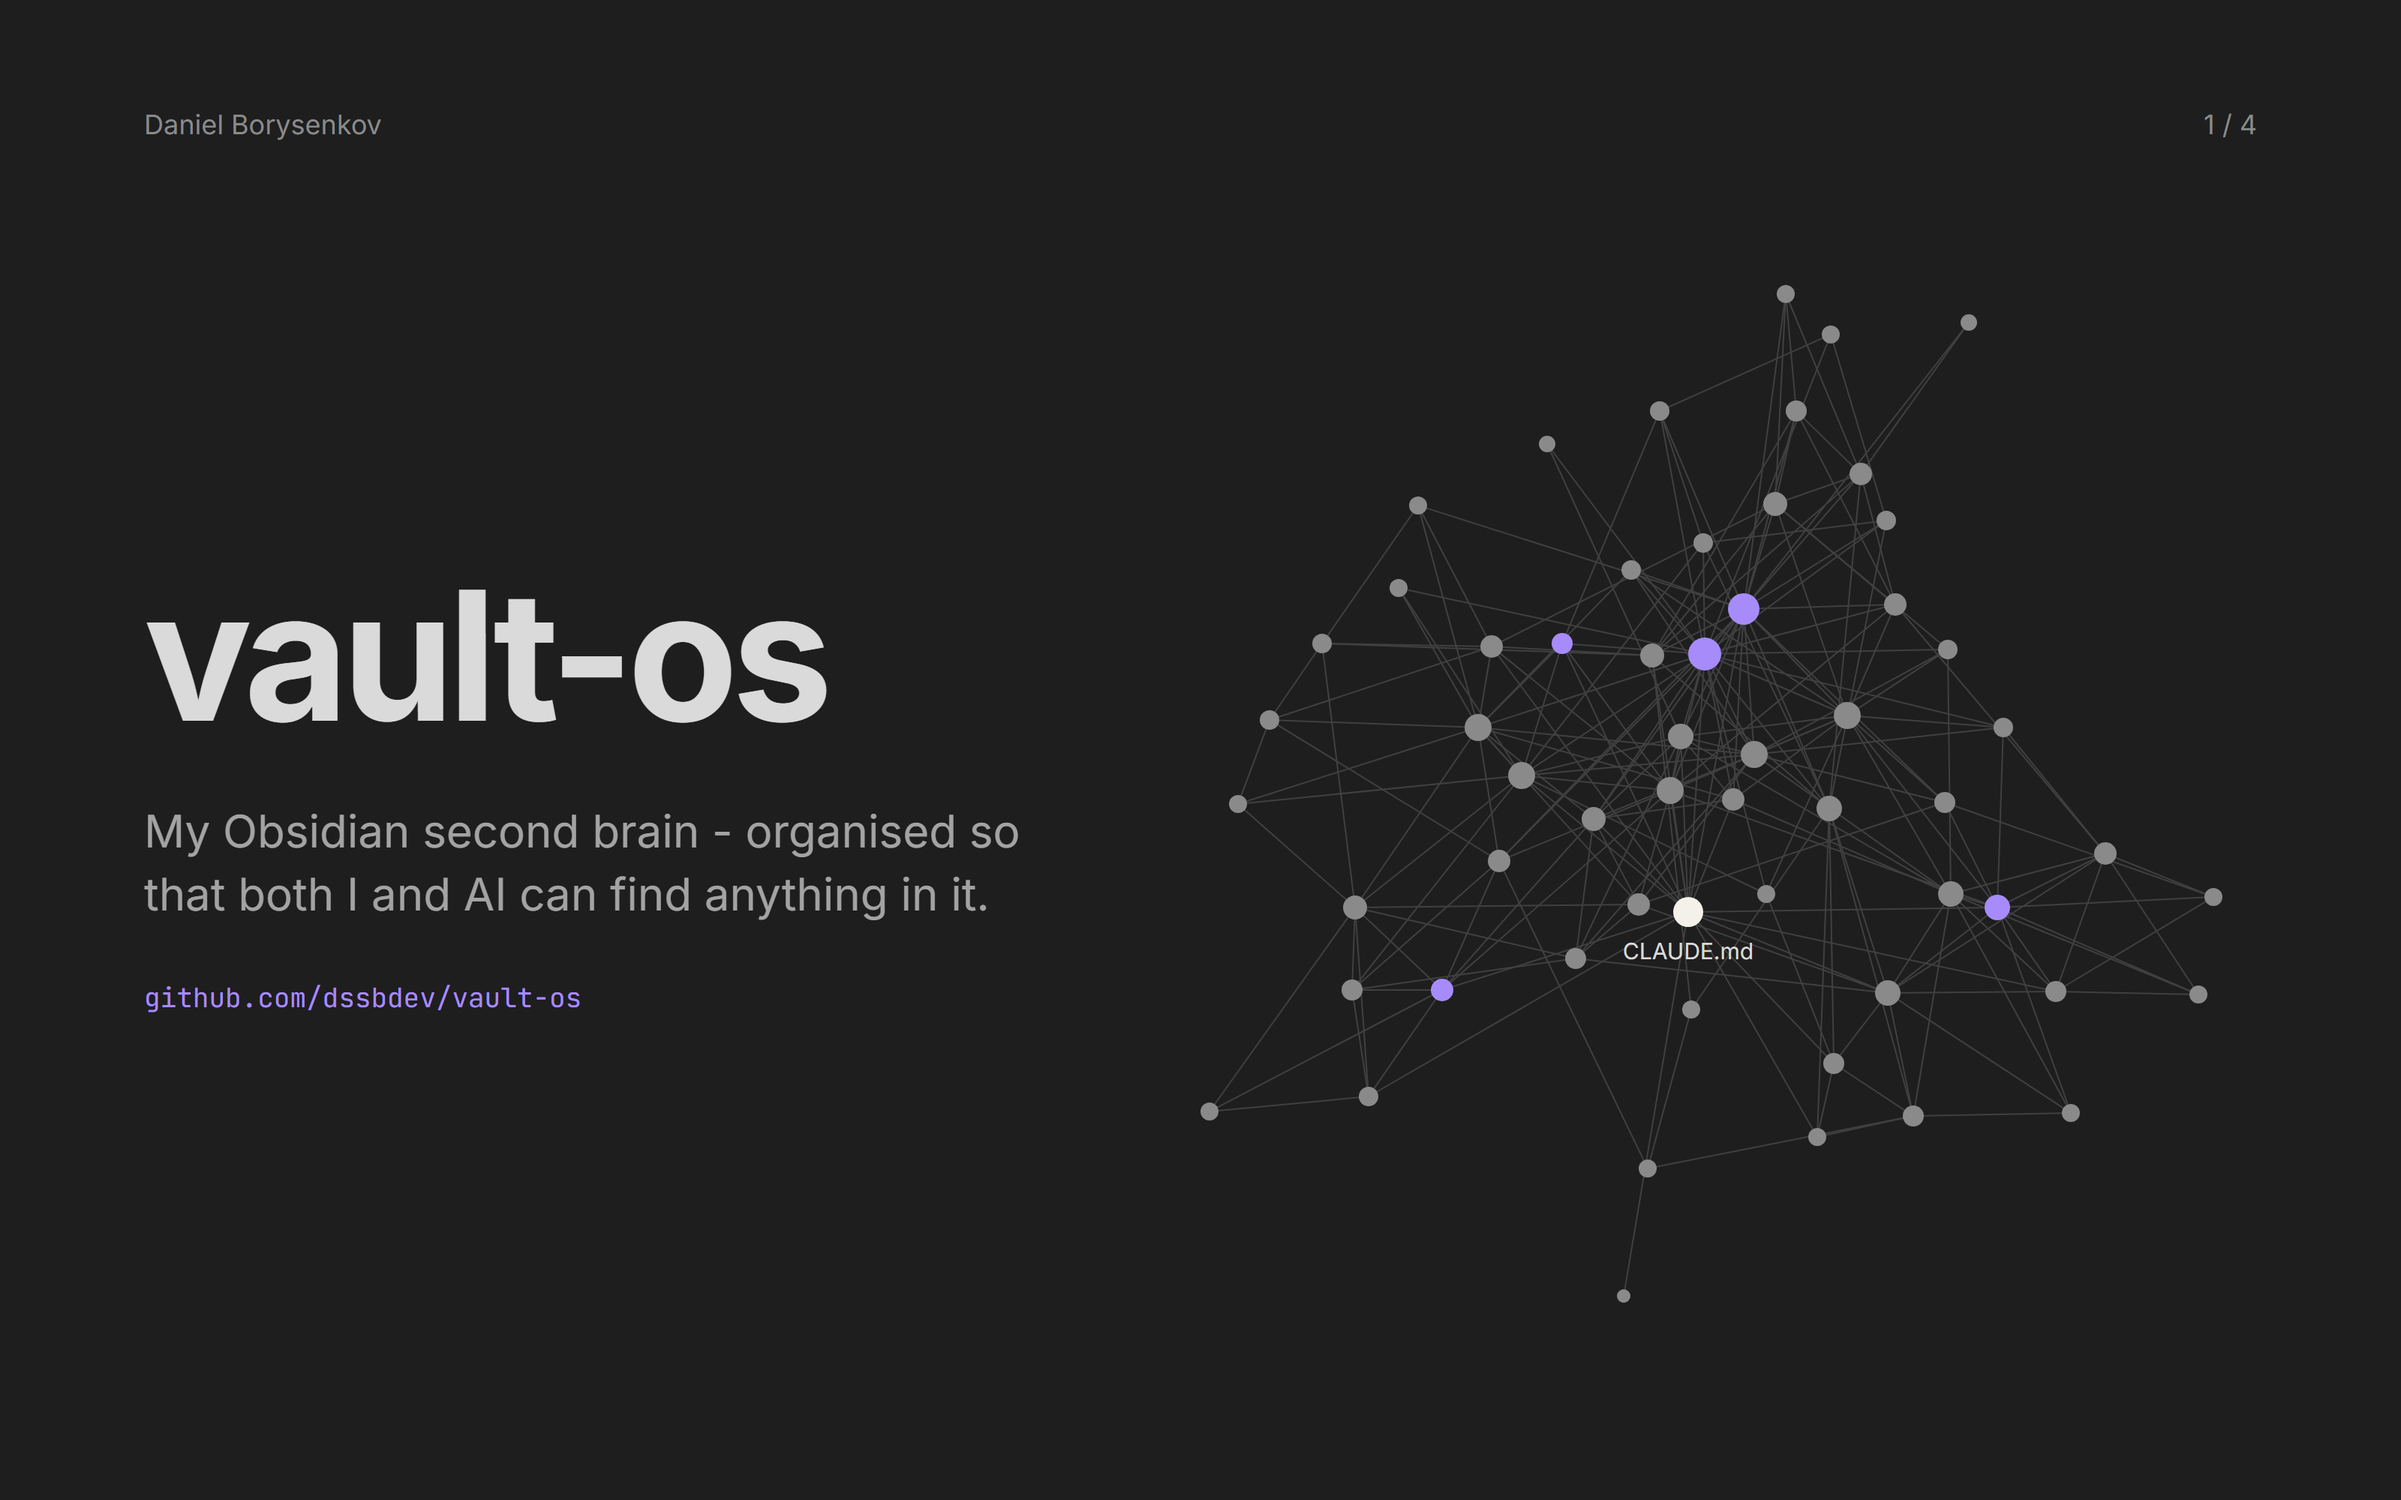
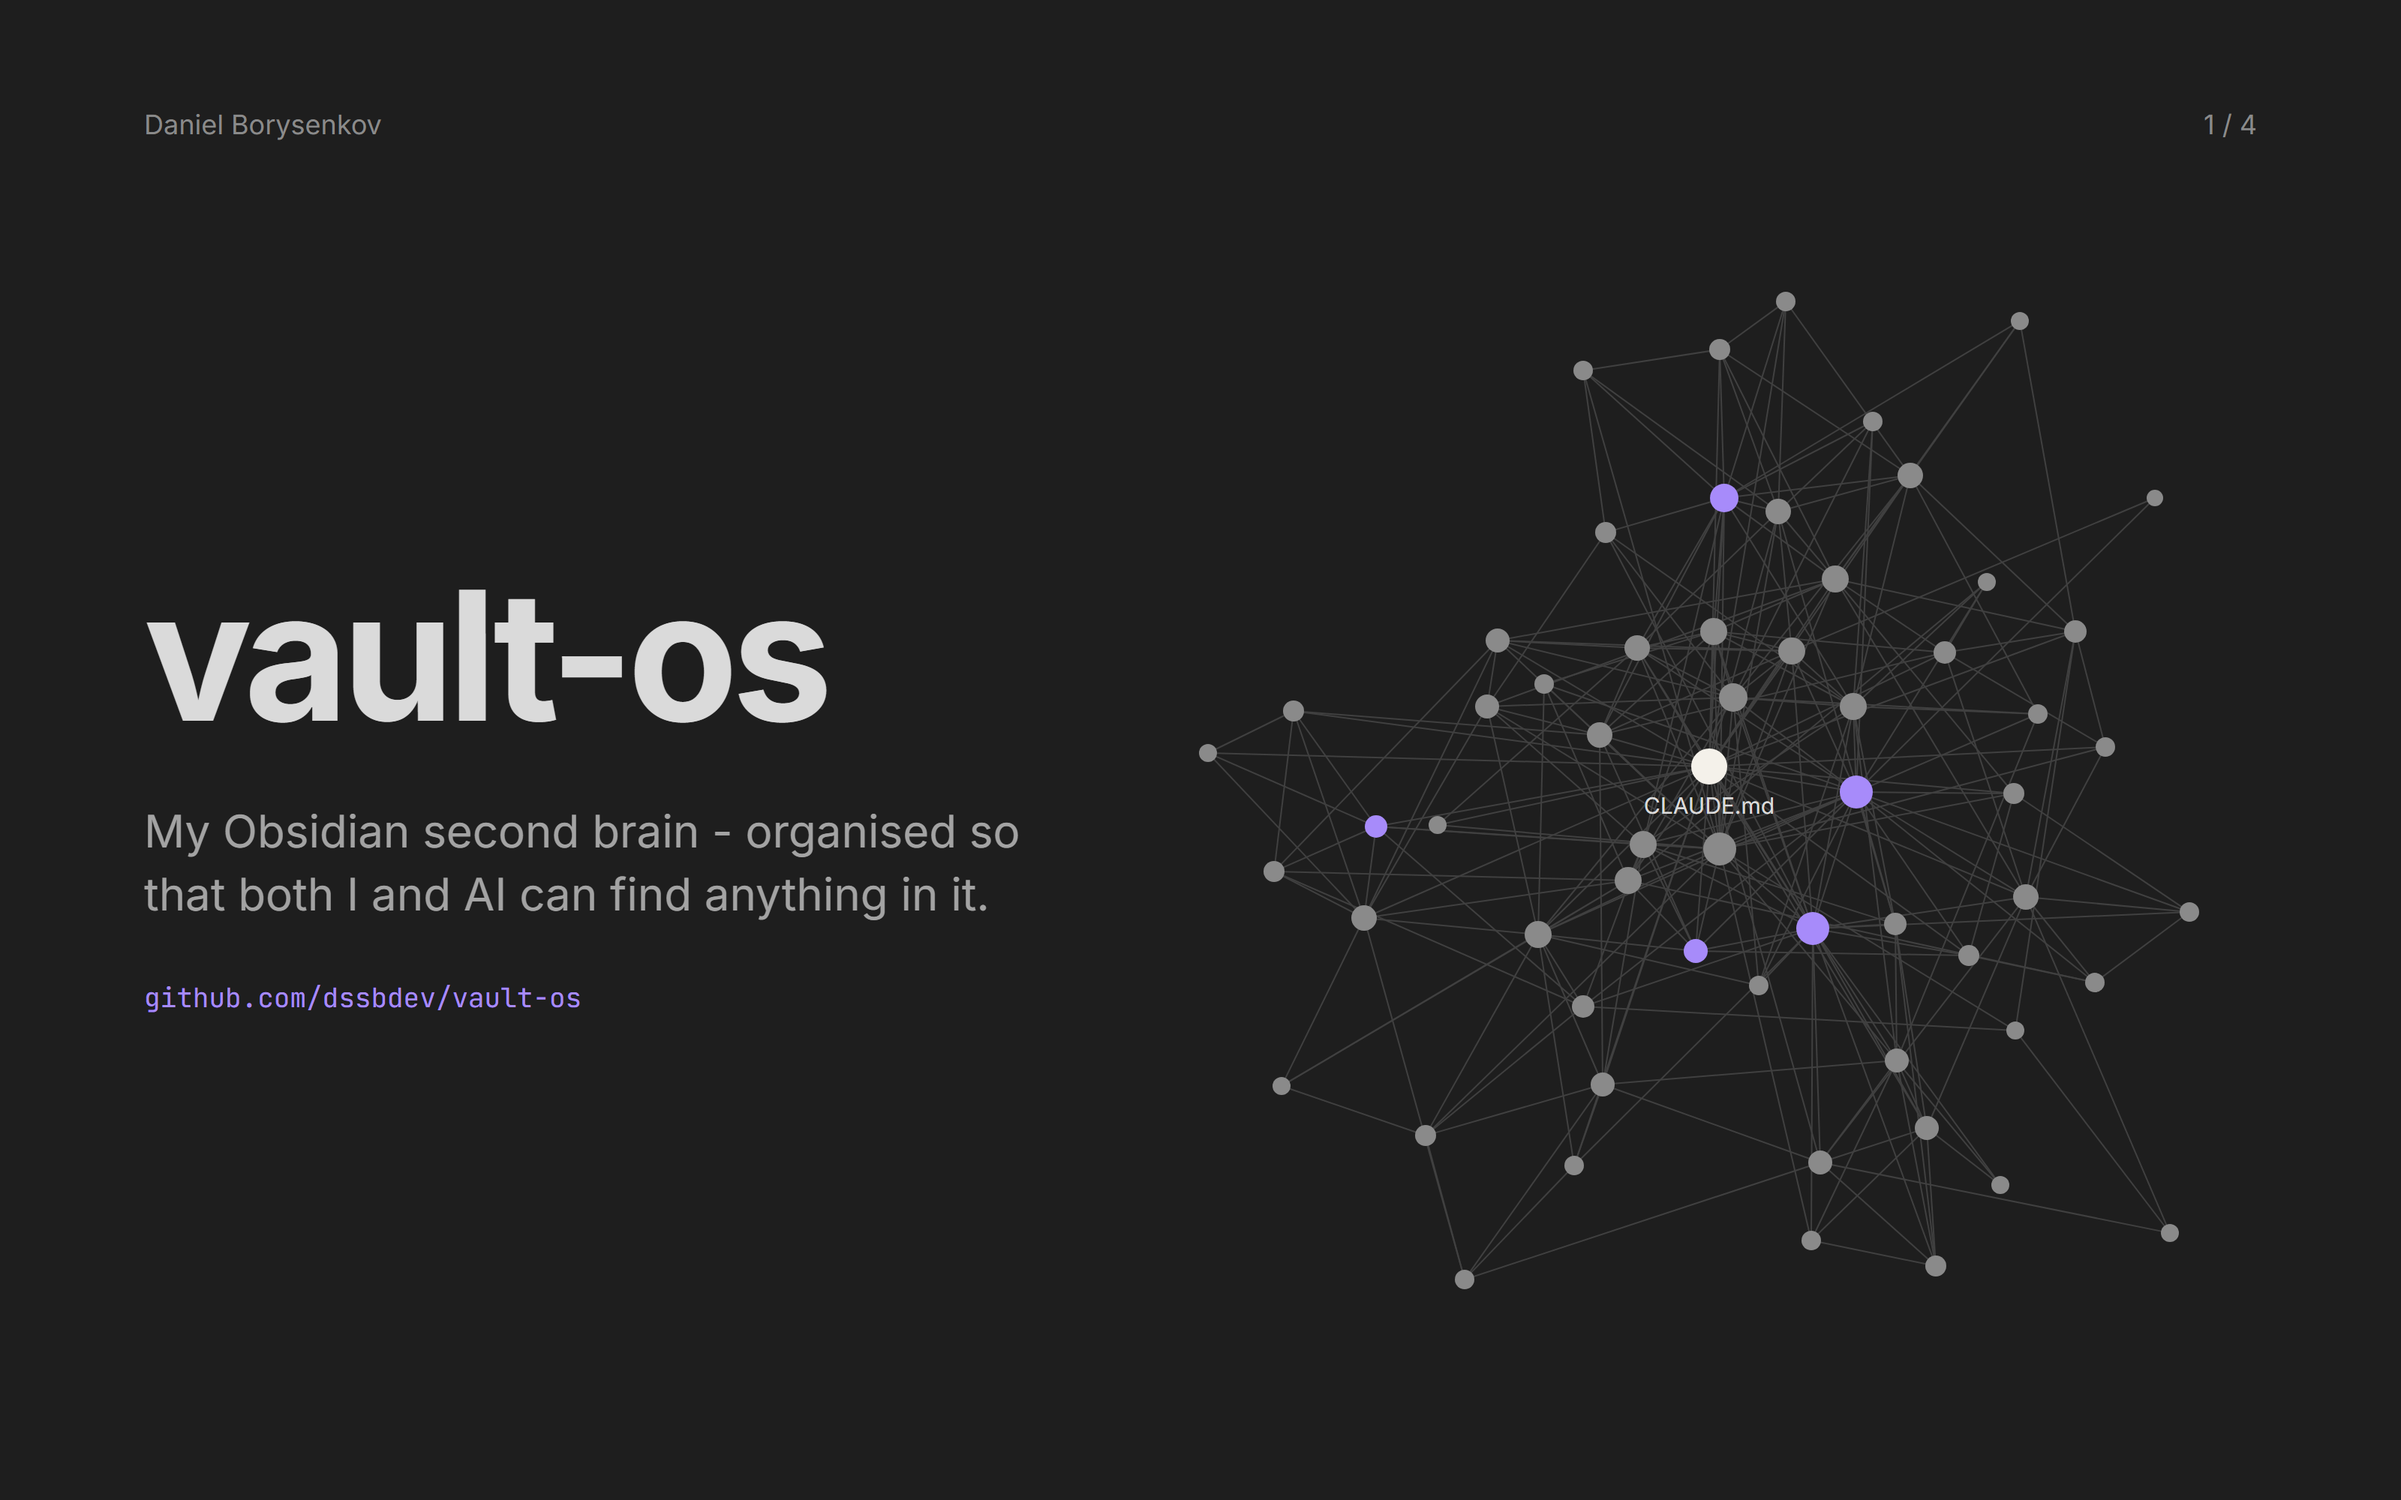
README and cards for the new structure; session log
The README gains a folder table and how the plan works. Cards 1, 2 and 4
are re-rendered: 15-Learning replaces 40-Courses, the map card shows the
track's new folder, and the cover graph is recomputed from the vault.

diff --git a/docs/SESSION-LOG.md b/docs/SESSION-LOG.md
@@ -1,0 +1,37 @@
+# Session log
+
+What was decided, what was rejected, and what could not be verified. Newest first.
+
+## 2026-10-18: the demo vault on the current structure, v1.0
+
+### Done
+
+- **15-Learning.** The Portuguese track moved out of `10-Projects/` into `15-Learning/portuguese-a2/` (renamed from `learn-portuguese-a2`), the two courses into `15-Learning/courses/<course>/`, and the learning area became the folder's hub (`15-Learning/learning.md`, with a Tracks table). `40-Courses/` is gone.
+- **05-Planning: the board and the cap.** New `roadmap.md` (the dates, the board with Now, Next, Frozen, Done, Killed and Not now, the sprints, the cap, how the system runs) and `reminders.md` (dated items only). `sprint.md` is now S1 in the new shape (one goal, at most three deliverables, at most two home items, the review at the bottom) and `today.md` is one main task, at most two others, a Work line and the reminders due. The quarter file moved to `archive/quarters/`, closed early; `week.md` is gone, its fixed points now a row in the roadmap. Archived sprints follow the `sprint-YYYY-Wxx-Wyy.md` naming.
+- **Weekly reviews are logs.** The two reviews moved from `05-Planning/archive/weekly/` to `90-Logs/2026-08/YYYY-MM-DD-weekly-review.md`, and the second one ends with a board check. A new decision log, `2026-08-16-planning-reset.md`, explains the switch inside the demo's own story.
+- **Status follows the board.** The backup project went from planning to active (it is a Now item), the frozen herbs project got a "Resume here" block, and the sourdough idea in the inbox is parked as `deferred`. Archived projects keep their folder under `99-Archive/projects/`.
+- **Conventions.** `CLAUDE.md` is rewritten as the map of the new structure, with the board, the cap and the commands. Research notes carry `distributed` and `connected-to`; `frontmatter-conventions.md` documents them and the board-to-status rule. Four templates were added (sprint, weekly review, course, research) and the daily plan template follows the new shape; templates stay free of links so they don't show up in the graph.
+- **The README** gained a folder table and a paragraph on how the plan works. **Cards 1, 2 and 4** were re-rendered: the folders card shows `15-Learning` instead of `40-Courses` and labels `05-Planning` as the plan, the map card shows the track in `15-Learning/`, and the cover's graph was recomputed from the vault's links with the same force layout, choosing among 40 seeds the layout where no note touches another or the `CLAUDE.md` label. Card 3 rendered byte-identical and is unchanged.
+- **Checks:** every wikilink resolves, no two notes share a name, no note is an orphan, no long dashes anywhere. A sweep of the tree and of every blob in the history found no employer traces and no real names besides the published authors cited in source lists.
+
+### Decided
+
+- The demo's three lanes are build, home and learning: the same cap as the real vault, with lanes that fit the made-up owner.
+- Old plans keep their old shape. Only their place and their links changed, the way the real vault keeps closed plans.
+
+### Rejected
+
+| What | Why |
+|---|---|
+| A weekly plan file next to the sprint | The current system has none; the Sunday review is a log and the week's shape is one row in the roadmap |
+| Links inside templates | Obsidian's graph would show the templates as linked notes |
+| Rewriting the history's author name (the old GitHub handle) | The repo is public; rewriting would need a force push for no gain |
+
+### Not verified
+
+- The vault wasn't opened in the Obsidian app; links were checked by a script that resolves them by file name, the way Obsidian does.
+
+### Open
+
+- `claude-setup/`, `git-setup/` and `obsidian-setup/` are still empty placeholders, and card 4 names Claude skills the repo doesn't ship yet.
+- The repo has no licence file.

diff --git a/README.md b/README.md
@@ -2,7 +2,7 @@
 
 My Obsidian second brain, organised so that both I and AI can find anything in it.
 
-This repo is the system behind it: how the folders are laid out, what every note says about itself at the top, and the map an AI assistant reads before anything else. It comes with a demo vault you can open in Obsidian and explore. Everything in the demo vault is made up.
+This repo is the system behind it: how the folders are laid out, what every note says about itself at the top, how one plan keeps only three things open at a time, and the map an AI assistant reads before anything else. It comes with a demo vault you can open in Obsidian and explore. Everything in the demo vault is made up.
 
 ![vault-os](assets/cards/01-cover.png)
 
@@ -12,6 +12,27 @@ This repo is the system behind it: how the folders are laid out, what every note
 
 ![AI starts from one map](assets/cards/04-ai-map.png)
 
+## The folders
+
+| Folder | What goes there |
+|---|---|
+| `00-System` | Templates, one for each kind of note |
+| `01-Inbox` | New ideas, not sorted yet. Parked ideas wait here too |
+| `05-Planning` | The plan: the roadmap, the current two weeks, today, and dated reminders |
+| `10-Projects` | Things with a finish line |
+| `15-Learning` | What I'm learning, one subject at a time, and the courses |
+| `20-Areas` | Things I look after that never finish |
+| `30-Notes` | What I know well enough to explain |
+| `50-Research` | Long comparisons and reports |
+| `60-Work` | Private, never shared or searched |
+| `90-Logs` | Decisions and weekly reviews, by date |
+| `99-Archive` | Finished or dropped, kept for the reasoning |
+| `CLAUDE.md` | The map: every project and area, where it lives and how it's doing |
+
+## How the plan works
+
+The roadmap is the only list of what's open. Every project sits in one group on it: Now, Next, Frozen, Done, Killed or Not now. Only three things are Now at once: one thing I'm building, one thing at home and one thing I'm learning. A new idea waits in the inbox, and it gets in only by replacing one of those three at the review every two weeks. Each day has one main task and at most two others.
+
 ## Try it
 
-Open the `obsidian-vault` folder as a vault in Obsidian, start from `CLAUDE.md` and follow the links.
+Open the `obsidian-vault` folder as a vault in Obsidian, start from `CLAUDE.md` and follow the links. The plan starts at `05-Planning/roadmap.md`.
